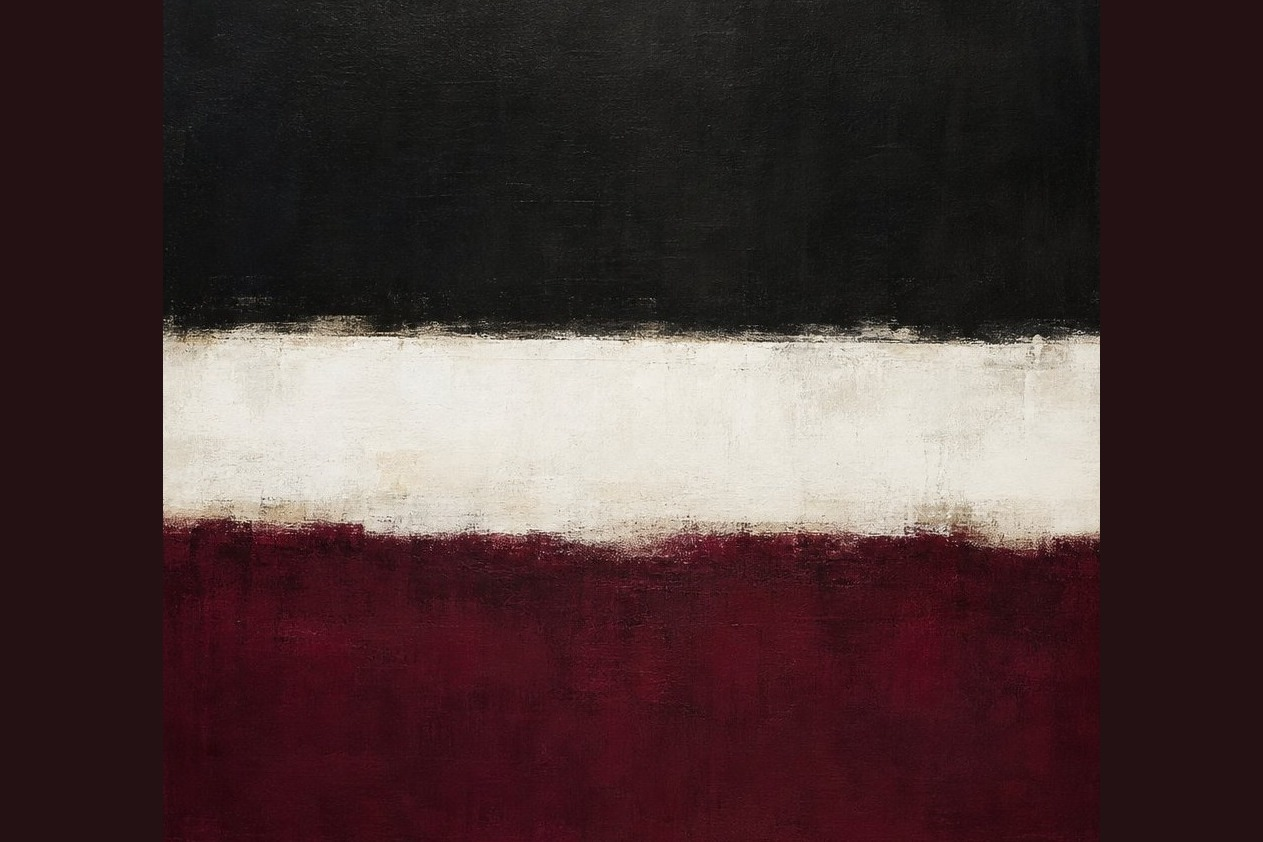
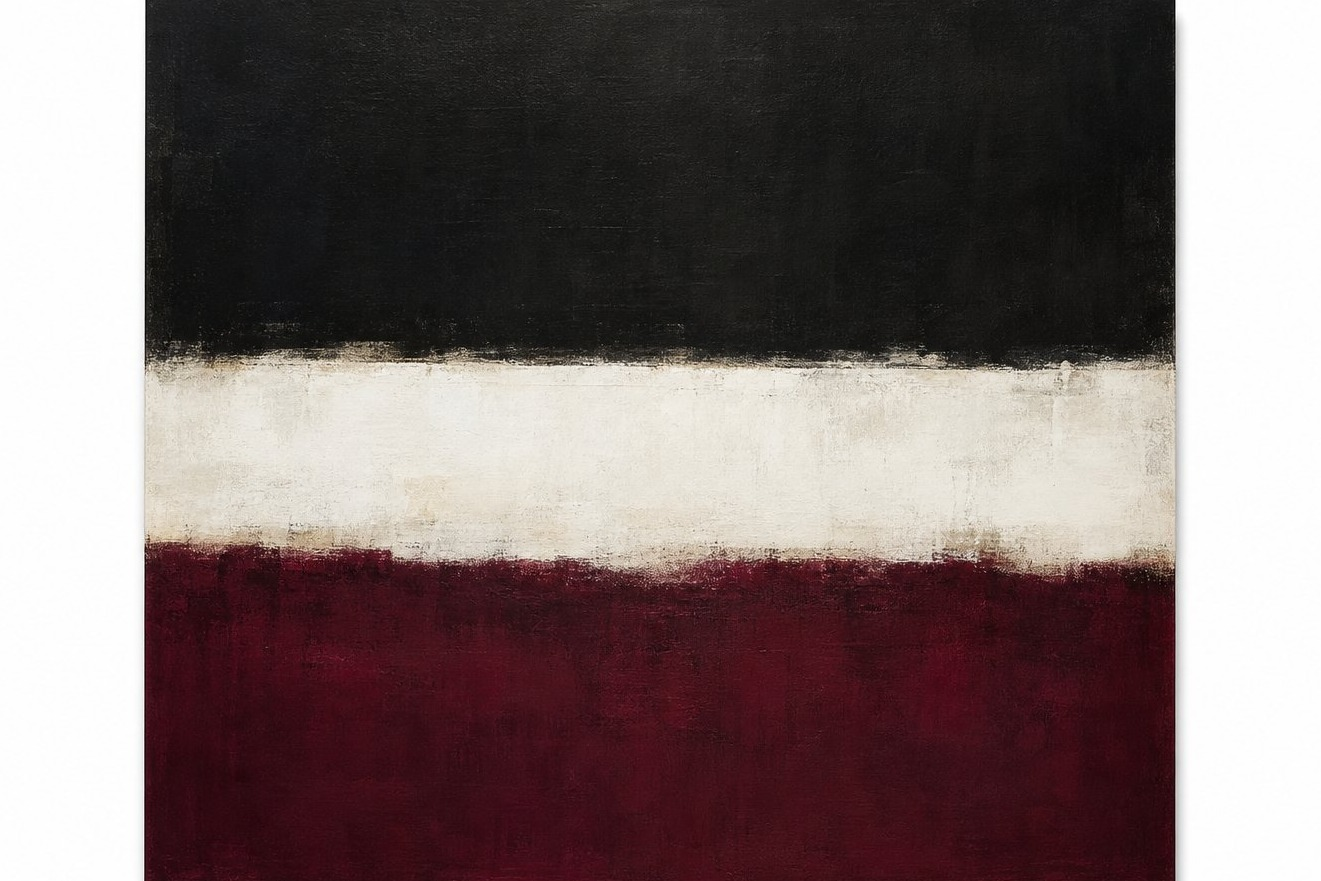
TEXTURES 1-6: imágenes limpias a sangre (recorte del mockup enmarcado) con cache-bust -v2; checkout y webhook apuntan a las nuevas; script v23

Changed region(s): [[0.0, 0.0, 1.0, 1.0]]

diff --git a/api/checkout.js b/api/checkout.js
@@ -2,7 +2,7 @@
 // Recibe {items:[{id,qty}]} y crea UNA Checkout Session de Stripe:
 // un solo pago, envío combinado por tamaños, stock de limitadas validado.
 const RATE = { 32:0, 39:0, 19:0, 44:0, 22:0, 30:0, 8:0 }; // envío siempre gratuito (asegurado)
-const CATALOGO = {"vino-primero":{"n":"Corriente","t":"100 × 150 cm","c":89000,"i":"https://www.gazetastudio.com/assets/print-vino.jpg","s":22,"e":20,"r":14,"f":0},"trazo-unico":{"n":"Pulso","t":"100 × 140 cm","c":42000,"i":"https://www.gazetastudio.com/assets/print-trazo.jpg","s":44,"e":20,"r":16,"f":0},"linea-y-vino":{"n":"Perfil en reposo","t":"60 × 90 cm","c":24000,"i":"https://www.gazetastudio.com/assets/print-linea.jpg","s":19,"e":20,"r":18,"f":0},"arena-calma":{"n":"Mediodía","t":"120 × 165 cm","c":56000,"i":"https://www.gazetastudio.com/assets/print-arena.jpg","s":30,"e":20,"r":12,"f":0},"horizonte-vino":{"n":"Última luz","t":"150 × 100 cm","c":115000,"i":"https://www.gazetastudio.com/assets/print-horizonte.jpg","s":22,"e":20,"r":9,"f":0},"geometria-callada":{"n":"Equilibrio","t":"40 × 55 cm","c":14500,"i":"https://www.gazetastudio.com/assets/print-geometria.jpg","s":39,"e":20,"r":15,"f":0},"textures-7":{"n":"Vena","t":"100 × 150 cm","c":28900,"i":"https://www.gazetastudio.com/assets/print-textures-7.jpg","s":22,"e":20,"r":20,"f":0},"textures-8":{"n":"Ceniza","t":"140 × 100 cm","c":25900,"i":"https://www.gazetastudio.com/assets/print-textures-8.jpg","s":44,"e":20,"r":20,"f":0},"textures-9":{"n":"Atardecer en yeso","t":"165 × 120 cm","c":29900,"i":"https://www.gazetastudio.com/assets/print-textures-9.jpg","s":30,"e":20,"r":20,"f":0},"textures-10":{"n":"Piel","t":"60 × 90 cm","c":18900,"i":"https://www.gazetastudio.com/assets/print-textures-10.jpg","s":19,"e":20,"r":20,"f":0},"eclectic-1":{"n":"Marea urbana","t":"100 × 150 cm","c":28900,"i":"https://www.gazetastudio.com/assets/print-eclectic-1.jpg","s":22,"e":100,"r":100,"f":1},"eclectic-2":{"n":"Terraza interior","t":"140 × 100 cm","c":17900,"i":"https://www.gazetastudio.com/assets/print-eclectic-2.jpg","s":44,"e":100,"r":100,"f":1},"eclectic-3":{"n":"Alfama","t":"140 × 100 cm","c":17900,"i":"https://www.gazetastudio.com/assets/print-eclectic-3.jpg","s":44,"e":100,"r":100,"f":1},"eclectic-4":{"n":"Azotea","t":"100 × 150 cm","c":19900,"i":"https://www.gazetastudio.com/assets/print-eclectic-4.jpg","s":22,"e":100,"r":100,"f":1},"eclectic-5":{"n":"Bodegón eléctrico","t":"140 × 100 cm","c":17900,"i":"https://www.gazetastudio.com/assets/print-eclectic-5.jpg","s":44,"e":100,"r":100,"f":1},"eclectic-6":{"n":"Mercado de flores","t":"140 × 100 cm","c":17900,"i":"https://www.gazetastudio.com/assets/print-eclectic-6.jpg","s":44,"e":100,"r":100,"f":1},"eclectic-7":{"n":"La cocina roja","t":"50 × 40 cm","c":11900,"i":"https://www.gazetastudio.com/assets/print-eclectic-7.jpg","s":32,"e":100,"r":100,"f":1},"eclectic-8":{"n":"Danza de sombrillas","t":"100 × 150 cm","c":19900,"i":"https://www.gazetastudio.com/assets/print-eclectic-8.jpg","s":22,"e":100,"r":100,"f":1},"eclectic-9":{"n":"Jardín nocturno","t":"55 × 40 cm","c":8900,"i":"https://www.gazetastudio.com/assets/print-eclectic-9.jpg","s":39,"e":100,"r":100,"f":1},"eclectic-10":{"n":"El coleccionista","t":"150 × 75 cm","c":22900,"i":"https://www.gazetastudio.com/assets/print-eclectic-10.jpg","s":8,"e":100,"r":100,"f":1},"nordic-1":{"n":"Silencio claro","t":"140 × 100 cm","c":17900,"i":"https://www.gazetastudio.com/assets/print-nordic-1.jpg","s":44,"e":100,"r":100,"f":1},"nordic-2":{"n":"Fiordo","t":"140 × 100 cm","c":17900,"i":"https://www.gazetastudio.com/assets/print-nordic-2.jpg","s":44,"e":100,"r":100,"f":1},"nordic-3":{"n":"Nieve de abril","t":"40 × 50 cm","c":8900,"i":"https://www.gazetastudio.com/assets/print-nordic-3.jpg","s":32,"e":100,"r":100,"f":1},"nordic-4":{"n":"Lago quieto","t":"140 × 100 cm","c":17900,"i":"https://www.gazetastudio.com/assets/print-nordic-4.jpg","s":44,"e":100,"r":100,"f":1},"nordic-5":{"n":"Bosque blanco","t":"100 × 150 cm","c":17900,"i":"https://www.gazetastudio.com/assets/print-nordic-5.jpg","s":22,"e":100,"r":100,"f":1},"nordic-6":{"n":"Marea baja","t":"140 × 100 cm","c":17900,"i":"https://www.gazetastudio.com/assets/print-nordic-6.jpg","s":44,"e":100,"r":100,"f":1},"nordic-7":{"n":"Hielo","t":"50 × 40 cm","c":7900,"i":"https://www.gazetastudio.com/assets/print-nordic-7.jpg","s":32,"e":100,"r":100,"f":1},"nordic-8":{"n":"Campo de centeno","t":"100 × 150 cm","c":17900,"i":"https://www.gazetastudio.com/assets/print-nordic-8.jpg","s":22,"e":100,"r":100,"f":1},"nordic-9":{"n":"Primer tren","t":"55 × 40 cm","c":7900,"i":"https://www.gazetastudio.com/assets/print-nordic-9.jpg","s":39,"e":100,"r":100,"f":1},"nordic-10":{"n":"Ventana al fiordo","t":"150 × 75 cm","c":19900,"i":"https://www.gazetastudio.com/assets/print-nordic-10.jpg","s":8,"e":100,"r":100,"f":1},"bauhaus-1":{"n":"Composición 7","t":"140 × 100 cm","c":17900,"i":"https://www.gazetastudio.com/assets/print-bauhaus-1.jpg","s":44,"e":100,"r":100,"f":1},"bauhaus-2":{"n":"Eje y círculo","t":"100 × 150 cm","c":27900,"i":"https://www.gazetastudio.com/assets/print-bauhaus-2.jpg","s":22,"e":100,"r":100,"f":1},"bauhaus-3":{"n":"Tríada","t":"75 × 150 cm","c":24900,"i":"https://www.gazetastudio.com/assets/print-bauhaus-3.jpg","s":8,"e":100,"r":100,"f":1},"bauhaus-4":{"n":"Progresión","t":"150 × 75 cm","c":22900,"i":"https://www.gazetastudio.com/assets/print-bauhaus-4.jpg","s":8,"e":100,"r":100,"f":1},"bauhaus-5":{"n":"Arco primario","t":"140 × 100 cm","c":18900,"i":"https://www.gazetastudio.com/assets/print-bauhaus-5.jpg","s":44,"e":100,"r":100,"f":1},"bauhaus-6":{"n":"Contracomposición","t":"100 × 150 cm","c":18900,"i":"https://www.gazetastudio.com/assets/print-bauhaus-6.jpg","s":22,"e":100,"r":100,"f":1},"bauhaus-7":{"n":"Tres mástiles","t":"140 × 100 cm","c":17900,"i":"https://www.gazetastudio.com/assets/print-bauhaus-7.jpg","s":44,"e":100,"r":100,"f":1},"bauhaus-8":{"n":"Círculo roto","t":"50 × 40 cm","c":9900,"i":"https://www.gazetastudio.com/assets/print-bauhaus-8.jpg","s":32,"e":100,"r":100,"f":1},"bauhaus-9":{"n":"Escalera cromática","t":"55 × 40 cm","c":8900,"i":"https://www.gazetastudio.com/assets/print-bauhaus-9.jpg","s":39,"e":100,"r":100,"f":1},"bauhaus-10":{"n":"Metropolitano","t":"150 × 75 cm","c":19900,"i":"https://www.gazetastudio.com/assets/print-bauhaus-10.jpg","s":8,"e":100,"r":100,"f":1},"ethereum-1":{"n":"Nodo","t":"100 × 150 cm","c":28900,"i":"https://www.gazetastudio.com/assets/print-ethereum-1.jpg","s":22,"e":100,"r":100,"f":1},"ethereum-2":{"n":"Vórtice","t":"100 × 150 cm","c":28900,"i":"https://www.gazetastudio.com/assets/print-ethereum-2.jpg","s":22,"e":100,"r":100,"f":1},"ethereum-3":{"n":"Nébula","t":"140 × 100 cm","c":26900,"i":"https://www.gazetastudio.com/assets/print-ethereum-3.jpg","s":44,"e":100,"r":100,"f":1},"ethereum-4":{"n":"Fractura","t":"165 × 120 cm","c":24900,"i":"https://www.gazetastudio.com/assets/print-ethereum-4.jpg","s":30,"e":100,"r":100,"f":1},"ethereum-5":{"n":"Espejo líquido","t":"100 × 150 cm","c":28900,"i":"https://www.gazetastudio.com/assets/print-ethereum-5.jpg","s":22,"e":100,"r":100,"f":1},"ethereum-6":{"n":"Señal","t":"50 × 40 cm","c":12900,"i":"https://www.gazetastudio.com/assets/print-ethereum-6.jpg","s":32,"e":100,"r":100,"f":1},"ethereum-7":{"n":"Constelación","t":"140 × 100 cm","c":25900,"i":"https://www.gazetastudio.com/assets/print-ethereum-7.jpg","s":44,"e":100,"r":100,"f":1},"ethereum-8":{"n":"Abismo dorado","t":"150 × 75 cm","c":19900,"i":"https://www.gazetastudio.com/assets/print-ethereum-8.jpg","s":8,"e":100,"r":100,"f":1},"ethereum-9":{"n":"Latencia","t":"55 × 40 cm","c":11900,"i":"https://www.gazetastudio.com/assets/print-ethereum-9.jpg","s":39,"e":100,"r":100,"f":1},"ethereum-10":{"n":"Núcleo","t":"165 × 120 cm","c":28900,"i":"https://www.gazetastudio.com/assets/print-ethereum-10.jpg","s":30,"e":100,"r":100,"f":1},"popart-1":{"n":"Rostro pop","t":"150 × 100 cm","c":17900,"i":"https://www.gazetastudio.com/assets/print-popart-1.jpg","s":22,"e":100,"r":100,"f":1},"popart-2":{"n":"Plátano explosivo","t":"100 × 150 cm","c":17900,"i":"https://www.gazetastudio.com/assets/print-popart-2.jpg","s":22,"e":100,"r":100,"f":1},"popart-3":{"n":"Big bang","t":"140 × 100 cm","c":17900,"i":"https://www.gazetastudio.com/assets/print-popart-3.jpg","s":44,"e":100,"r":100,"f":1},"popart-4":{"n":"Chicle","t":"150 × 100 cm","c":17900,"i":"https://www.gazetastudio.com/assets/print-popart-4.jpg","s":22,"e":100,"r":100,"f":1},"popart-5":{"n":"Cóctel","t":"100 × 150 cm","c":17900,"i":"https://www.gazetastudio.com/assets/print-popart-5.jpg","s":22,"e":100,"r":100,"f":1},"popart-6":{"n":"Patatas fritas","t":"50 × 40 cm","c":9900,"i":"https://www.gazetastudio.com/assets/print-popart-6.jpg","s":32,"e":100,"r":100,"f":1},"popart-7":{"n":"La estrella","t":"140 × 100 cm","c":17900,"i":"https://www.gazetastudio.com/assets/print-popart-7.jpg","s":44,"e":100,"r":100,"f":1},"popart-8":{"n":"Burbujas","t":"55 × 40 cm","c":8900,"i":"https://www.gazetastudio.com/assets/print-popart-8.jpg","s":39,"e":100,"r":100,"f":1},"popart-9":{"n":"Casete","t":"150 × 75 cm","c":19900,"i":"https://www.gazetastudio.com/assets/print-popart-9.jpg","s":8,"e":100,"r":100,"f":1},"popart-10":{"n":"Sirena","t":"165 × 120 cm","c":19900,"i":"https://www.gazetastudio.com/assets/print-popart-10.jpg","s":30,"e":100,"r":100,"f":1},"dimension-1":{"n":"Estratos","t":"100 × 150 cm","c":17900,"i":"https://www.gazetastudio.com/assets/print-dimension-1.jpg","s":22,"e":100,"r":100,"f":1},"dimension-2":{"n":"Arcos flotantes","t":"140 × 100 cm","c":21900,"i":"https://www.gazetastudio.com/assets/print-dimension-2.jpg","s":44,"e":100,"r":100,"f":1},"dimension-3":{"n":"Ola tallada","t":"165 × 120 cm","c":19900,"i":"https://www.gazetastudio.com/assets/print-dimension-3.jpg","s":30,"e":100,"r":100,"f":1},"dimension-4":{"n":"Estratos II","t":"100 × 150 cm","c":17900,"i":"https://www.gazetastudio.com/assets/print-dimension-4.jpg","s":22,"e":100,"r":100,"f":1},"dimension-5":{"n":"Plegado","t":"50 × 40 cm","c":9900,"i":"https://www.gazetastudio.com/assets/print-dimension-5.jpg","s":32,"e":100,"r":100,"f":1},"dimension-6":{"n":"Duna interior","t":"140 × 100 cm","c":18900,"i":"https://www.gazetastudio.com/assets/print-dimension-6.jpg","s":44,"e":100,"r":100,"f":1},"dimension-7":{"n":"Fronda","t":"55 × 40 cm","c":8900,"i":"https://www.gazetastudio.com/assets/print-dimension-7.jpg","s":39,"e":100,"r":100,"f":1},"dimension-8":{"n":"Marea de papel","t":"150 × 75 cm","c":19900,"i":"https://www.gazetastudio.com/assets/print-dimension-8.jpg","s":8,"e":100,"r":100,"f":1},"dimension-9":{"n":"Umbral","t":"60 × 90 cm","c":14900,"i":"https://www.gazetastudio.com/assets/print-dimension-9.jpg","s":19,"e":100,"r":100,"f":1},"dimension-10":{"n":"Vertedera","t":"165 × 120 cm","c":19900,"i":"https://www.gazetastudio.com/assets/print-dimension-10.jpg","s":30,"e":100,"r":100,"f":1}};
+const CATALOGO = {"vino-primero":{"n":"Corriente","t":"100 × 150 cm","c":89000,"i":"https://www.gazetastudio.com/assets/print-vino-v2.jpg","s":22,"e":20,"r":14,"f":0},"trazo-unico":{"n":"Pulso","t":"100 × 140 cm","c":42000,"i":"https://www.gazetastudio.com/assets/print-trazo-v2.jpg","s":44,"e":20,"r":16,"f":0},"linea-y-vino":{"n":"Perfil en reposo","t":"60 × 90 cm","c":24000,"i":"https://www.gazetastudio.com/assets/print-linea-v2.jpg","s":19,"e":20,"r":18,"f":0},"arena-calma":{"n":"Mediodía","t":"120 × 165 cm","c":56000,"i":"https://www.gazetastudio.com/assets/print-arena-v2.jpg","s":30,"e":20,"r":12,"f":0},"horizonte-vino":{"n":"Última luz","t":"150 × 100 cm","c":115000,"i":"https://www.gazetastudio.com/assets/print-horizonte-v2.jpg","s":22,"e":20,"r":9,"f":0},"geometria-callada":{"n":"Equilibrio","t":"40 × 55 cm","c":14500,"i":"https://www.gazetastudio.com/assets/print-geometria-v2.jpg","s":39,"e":20,"r":15,"f":0},"textures-7":{"n":"Vena","t":"100 × 150 cm","c":28900,"i":"https://www.gazetastudio.com/assets/print-textures-7.jpg","s":22,"e":20,"r":20,"f":0},"textures-8":{"n":"Ceniza","t":"140 × 100 cm","c":25900,"i":"https://www.gazetastudio.com/assets/print-textures-8.jpg","s":44,"e":20,"r":20,"f":0},"textures-9":{"n":"Atardecer en yeso","t":"165 × 120 cm","c":29900,"i":"https://www.gazetastudio.com/assets/print-textures-9.jpg","s":30,"e":20,"r":20,"f":0},"textures-10":{"n":"Piel","t":"60 × 90 cm","c":18900,"i":"https://www.gazetastudio.com/assets/print-textures-10.jpg","s":19,"e":20,"r":20,"f":0},"eclectic-1":{"n":"Marea urbana","t":"100 × 150 cm","c":28900,"i":"https://www.gazetastudio.com/assets/print-eclectic-1.jpg","s":22,"e":100,"r":100,"f":1},"eclectic-2":{"n":"Terraza interior","t":"140 × 100 cm","c":17900,"i":"https://www.gazetastudio.com/assets/print-eclectic-2.jpg","s":44,"e":100,"r":100,"f":1},"eclectic-3":{"n":"Alfama","t":"140 × 100 cm","c":17900,"i":"https://www.gazetastudio.com/assets/print-eclectic-3.jpg","s":44,"e":100,"r":100,"f":1},"eclectic-4":{"n":"Azotea","t":"100 × 150 cm","c":19900,"i":"https://www.gazetastudio.com/assets/print-eclectic-4.jpg","s":22,"e":100,"r":100,"f":1},"eclectic-5":{"n":"Bodegón eléctrico","t":"140 × 100 cm","c":17900,"i":"https://www.gazetastudio.com/assets/print-eclectic-5.jpg","s":44,"e":100,"r":100,"f":1},"eclectic-6":{"n":"Mercado de flores","t":"140 × 100 cm","c":17900,"i":"https://www.gazetastudio.com/assets/print-eclectic-6.jpg","s":44,"e":100,"r":100,"f":1},"eclectic-7":{"n":"La cocina roja","t":"50 × 40 cm","c":11900,"i":"https://www.gazetastudio.com/assets/print-eclectic-7.jpg","s":32,"e":100,"r":100,"f":1},"eclectic-8":{"n":"Danza de sombrillas","t":"100 × 150 cm","c":19900,"i":"https://www.gazetastudio.com/assets/print-eclectic-8.jpg","s":22,"e":100,"r":100,"f":1},"eclectic-9":{"n":"Jardín nocturno","t":"55 × 40 cm","c":8900,"i":"https://www.gazetastudio.com/assets/print-eclectic-9.jpg","s":39,"e":100,"r":100,"f":1},"eclectic-10":{"n":"El coleccionista","t":"150 × 75 cm","c":22900,"i":"https://www.gazetastudio.com/assets/print-eclectic-10.jpg","s":8,"e":100,"r":100,"f":1},"nordic-1":{"n":"Silencio claro","t":"140 × 100 cm","c":17900,"i":"https://www.gazetastudio.com/assets/print-nordic-1.jpg","s":44,"e":100,"r":100,"f":1},"nordic-2":{"n":"Fiordo","t":"140 × 100 cm","c":17900,"i":"https://www.gazetastudio.com/assets/print-nordic-2.jpg","s":44,"e":100,"r":100,"f":1},"nordic-3":{"n":"Nieve de abril","t":"40 × 50 cm","c":8900,"i":"https://www.gazetastudio.com/assets/print-nordic-3.jpg","s":32,"e":100,"r":100,"f":1},"nordic-4":{"n":"Lago quieto","t":"140 × 100 cm","c":17900,"i":"https://www.gazetastudio.com/assets/print-nordic-4.jpg","s":44,"e":100,"r":100,"f":1},"nordic-5":{"n":"Bosque blanco","t":"100 × 150 cm","c":17900,"i":"https://www.gazetastudio.com/assets/print-nordic-5.jpg","s":22,"e":100,"r":100,"f":1},"nordic-6":{"n":"Marea baja","t":"140 × 100 cm","c":17900,"i":"https://www.gazetastudio.com/assets/print-nordic-6.jpg","s":44,"e":100,"r":100,"f":1},"nordic-7":{"n":"Hielo","t":"50 × 40 cm","c":7900,"i":"https://www.gazetastudio.com/assets/print-nordic-7.jpg","s":32,"e":100,"r":100,"f":1},"nordic-8":{"n":"Campo de centeno","t":"100 × 150 cm","c":17900,"i":"https://www.gazetastudio.com/assets/print-nordic-8.jpg","s":22,"e":100,"r":100,"f":1},"nordic-9":{"n":"Primer tren","t":"55 × 40 cm","c":7900,"i":"https://www.gazetastudio.com/assets/print-nordic-9.jpg","s":39,"e":100,"r":100,"f":1},"nordic-10":{"n":"Ventana al fiordo","t":"150 × 75 cm","c":19900,"i":"https://www.gazetastudio.com/assets/print-nordic-10.jpg","s":8,"e":100,"r":100,"f":1},"bauhaus-1":{"n":"Composición 7","t":"140 × 100 cm","c":17900,"i":"https://www.gazetastudio.com/assets/print-bauhaus-1.jpg","s":44,"e":100,"r":100,"f":1},"bauhaus-2":{"n":"Eje y círculo","t":"100 × 150 cm","c":27900,"i":"https://www.gazetastudio.com/assets/print-bauhaus-2.jpg","s":22,"e":100,"r":100,"f":1},"bauhaus-3":{"n":"Tríada","t":"75 × 150 cm","c":24900,"i":"https://www.gazetastudio.com/assets/print-bauhaus-3.jpg","s":8,"e":100,"r":100,"f":1},"bauhaus-4":{"n":"Progresión","t":"150 × 75 cm","c":22900,"i":"https://www.gazetastudio.com/assets/print-bauhaus-4.jpg","s":8,"e":100,"r":100,"f":1},"bauhaus-5":{"n":"Arco primario","t":"140 × 100 cm","c":18900,"i":"https://www.gazetastudio.com/assets/print-bauhaus-5.jpg","s":44,"e":100,"r":100,"f":1},"bauhaus-6":{"n":"Contracomposición","t":"100 × 150 cm","c":18900,"i":"https://www.gazetastudio.com/assets/print-bauhaus-6.jpg","s":22,"e":100,"r":100,"f":1},"bauhaus-7":{"n":"Tres mástiles","t":"140 × 100 cm","c":17900,"i":"https://www.gazetastudio.com/assets/print-bauhaus-7.jpg","s":44,"e":100,"r":100,"f":1},"bauhaus-8":{"n":"Círculo roto","t":"50 × 40 cm","c":9900,"i":"https://www.gazetastudio.com/assets/print-bauhaus-8.jpg","s":32,"e":100,"r":100,"f":1},"bauhaus-9":{"n":"Escalera cromática","t":"55 × 40 cm","c":8900,"i":"https://www.gazetastudio.com/assets/print-bauhaus-9.jpg","s":39,"e":100,"r":100,"f":1},"bauhaus-10":{"n":"Metropolitano","t":"150 × 75 cm","c":19900,"i":"https://www.gazetastudio.com/assets/print-bauhaus-10.jpg","s":8,"e":100,"r":100,"f":1},"ethereum-1":{"n":"Nodo","t":"100 × 150 cm","c":28900,"i":"https://www.gazetastudio.com/assets/print-ethereum-1.jpg","s":22,"e":100,"r":100,"f":1},"ethereum-2":{"n":"Vórtice","t":"100 × 150 cm","c":28900,"i":"https://www.gazetastudio.com/assets/print-ethereum-2.jpg","s":22,"e":100,"r":100,"f":1},"ethereum-3":{"n":"Nébula","t":"140 × 100 cm","c":26900,"i":"https://www.gazetastudio.com/assets/print-ethereum-3.jpg","s":44,"e":100,"r":100,"f":1},"ethereum-4":{"n":"Fractura","t":"165 × 120 cm","c":24900,"i":"https://www.gazetastudio.com/assets/print-ethereum-4.jpg","s":30,"e":100,"r":100,"f":1},"ethereum-5":{"n":"Espejo líquido","t":"100 × 150 cm","c":28900,"i":"https://www.gazetastudio.com/assets/print-ethereum-5.jpg","s":22,"e":100,"r":100,"f":1},"ethereum-6":{"n":"Señal","t":"50 × 40 cm","c":12900,"i":"https://www.gazetastudio.com/assets/print-ethereum-6.jpg","s":32,"e":100,"r":100,"f":1},"ethereum-7":{"n":"Constelación","t":"140 × 100 cm","c":25900,"i":"https://www.gazetastudio.com/assets/print-ethereum-7.jpg","s":44,"e":100,"r":100,"f":1},"ethereum-8":{"n":"Abismo dorado","t":"150 × 75 cm","c":19900,"i":"https://www.gazetastudio.com/assets/print-ethereum-8.jpg","s":8,"e":100,"r":100,"f":1},"ethereum-9":{"n":"Latencia","t":"55 × 40 cm","c":11900,"i":"https://www.gazetastudio.com/assets/print-ethereum-9.jpg","s":39,"e":100,"r":100,"f":1},"ethereum-10":{"n":"Núcleo","t":"165 × 120 cm","c":28900,"i":"https://www.gazetastudio.com/assets/print-ethereum-10.jpg","s":30,"e":100,"r":100,"f":1},"popart-1":{"n":"Rostro pop","t":"150 × 100 cm","c":17900,"i":"https://www.gazetastudio.com/assets/print-popart-1.jpg","s":22,"e":100,"r":100,"f":1},"popart-2":{"n":"Plátano explosivo","t":"100 × 150 cm","c":17900,"i":"https://www.gazetastudio.com/assets/print-popart-2.jpg","s":22,"e":100,"r":100,"f":1},"popart-3":{"n":"Big bang","t":"140 × 100 cm","c":17900,"i":"https://www.gazetastudio.com/assets/print-popart-3.jpg","s":44,"e":100,"r":100,"f":1},"popart-4":{"n":"Chicle","t":"150 × 100 cm","c":17900,"i":"https://www.gazetastudio.com/assets/print-popart-4.jpg","s":22,"e":100,"r":100,"f":1},"popart-5":{"n":"Cóctel","t":"100 × 150 cm","c":17900,"i":"https://www.gazetastudio.com/assets/print-popart-5.jpg","s":22,"e":100,"r":100,"f":1},"popart-6":{"n":"Patatas fritas","t":"50 × 40 cm","c":9900,"i":"https://www.gazetastudio.com/assets/print-popart-6.jpg","s":32,"e":100,"r":100,"f":1},"popart-7":{"n":"La estrella","t":"140 × 100 cm","c":17900,"i":"https://www.gazetastudio.com/assets/print-popart-7.jpg","s":44,"e":100,"r":100,"f":1},"popart-8":{"n":"Burbujas","t":"55 × 40 cm","c":8900,"i":"https://www.gazetastudio.com/assets/print-popart-8.jpg","s":39,"e":100,"r":100,"f":1},"popart-9":{"n":"Casete","t":"150 × 75 cm","c":19900,"i":"https://www.gazetastudio.com/assets/print-popart-9.jpg","s":8,"e":100,"r":100,"f":1},"popart-10":{"n":"Sirena","t":"165 × 120 cm","c":19900,"i":"https://www.gazetastudio.com/assets/print-popart-10.jpg","s":30,"e":100,"r":100,"f":1},"dimension-1":{"n":"Estratos","t":"100 × 150 cm","c":17900,"i":"https://www.gazetastudio.com/assets/print-dimension-1.jpg","s":22,"e":100,"r":100,"f":1},"dimension-2":{"n":"Arcos flotantes","t":"140 × 100 cm","c":21900,"i":"https://www.gazetastudio.com/assets/print-dimension-2.jpg","s":44,"e":100,"r":100,"f":1},"dimension-3":{"n":"Ola tallada","t":"165 × 120 cm","c":19900,"i":"https://www.gazetastudio.com/assets/print-dimension-3.jpg","s":30,"e":100,"r":100,"f":1},"dimension-4":{"n":"Estratos II","t":"100 × 150 cm","c":17900,"i":"https://www.gazetastudio.com/assets/print-dimension-4.jpg","s":22,"e":100,"r":100,"f":1},"dimension-5":{"n":"Plegado","t":"50 × 40 cm","c":9900,"i":"https://www.gazetastudio.com/assets/print-dimension-5.jpg","s":32,"e":100,"r":100,"f":1},"dimension-6":{"n":"Duna interior","t":"140 × 100 cm","c":18900,"i":"https://www.gazetastudio.com/assets/print-dimension-6.jpg","s":44,"e":100,"r":100,"f":1},"dimension-7":{"n":"Fronda","t":"55 × 40 cm","c":8900,"i":"https://www.gazetastudio.com/assets/print-dimension-7.jpg","s":39,"e":100,"r":100,"f":1},"dimension-8":{"n":"Marea de papel","t":"150 × 75 cm","c":19900,"i":"https://www.gazetastudio.com/assets/print-dimension-8.jpg","s":8,"e":100,"r":100,"f":1},"dimension-9":{"n":"Umbral","t":"60 × 90 cm","c":14900,"i":"https://www.gazetastudio.com/assets/print-dimension-9.jpg","s":19,"e":100,"r":100,"f":1},"dimension-10":{"n":"Vertedera","t":"165 × 120 cm","c":19900,"i":"https://www.gazetastudio.com/assets/print-dimension-10.jpg","s":30,"e":100,"r":100,"f":1}};
 const PRODUCTO_LIMITADA = {"vino-primero":"prod_VVv8zJYc3NUEIr","trazo-unico":"prod_VUMRGwjTiy5ffP","linea-y-vino":"prod_VUMRXQn31wHO1U","arena-calma":"prod_VUMR8RqqCZm1Pp","horizonte-vino":"prod_VUMRSpUJGD3fMY","geometria-callada":"prod_VUMRdH5PhvuJDa","textures-7":"prod_VVv4u2wKPL90nP","textures-8":"prod_VVv47ALRy0k7SD","textures-9":"prod_VVv4GYmLWHvGbR","textures-10":"prod_VVv4NYU0rjWJBe"};
 const MAX_UNIDADES_OBRA = 10;
 const MAX_UNIDADES_PEDIDO = 20;

diff --git a/script.js b/script.js
@@ -14,12 +14,12 @@ const COLECCIONES = {
 
 const productos = [
   /* ───── TEXTURES · edición limitada de 20 ───── */
-  { id:'vino-primero', nombre:'Corriente', coleccion:'textures', img:'assets/obra-vino.jpg', img2:'assets/print-vino.jpg', tamano:'100 × 150 cm', size_id:22, edicion:20, restantes:14, precio:890,  pago:'https://buy.stripe.com/28EbIVga0bnS2BY3TN5os21', gran:true },
-  { id:'trazo-unico', nombre:'Pulso', coleccion:'textures', img:'assets/obra-trazo.jpg', img2:'assets/print-trazo.jpg', tamano:'100 × 140 cm', size_id:44, edicion:20, restantes:16, precio:420,  pago:'https://buy.stripe.com/4gM7sF9LCfE890m2PJ5os01', gran:true },
-  { id:'linea-y-vino', nombre:'Perfil en reposo', coleccion:'textures', img:'assets/obra-linea.jpg', img2:'assets/print-linea.jpg', tamano:'60 × 90 cm', size_id:19, edicion:20, restantes:18, precio:240,  pago:'https://buy.stripe.com/dRmcMZ2ja63ydgC9e75os02', gran:false },
-  { id:'arena-calma', nombre:'Mediodía', coleccion:'textures', img:'assets/obra-arena.jpg', img2:'assets/print-arena.jpg', tamano:'120 × 165 cm', size_id:30, edicion:20, restantes:12, precio:560,  pago:'https://buy.stripe.com/cNi00d0b2crW7Wieyr5os03', gran:true },
-  { id:'horizonte-vino', nombre:'Última luz', coleccion:'textures', img:'assets/obra-horizonte.jpg', img2:'assets/print-horizonte.jpg', tamano:'150 × 100 cm', size_id:22, edicion:20, restantes:9,  precio:1150, pago:'https://buy.stripe.com/00wcMZbTK0Jeb8u9e75os04', gran:true },
-  { id:'geometria-callada', nombre:'Equilibrio', coleccion:'textures', img:'assets/obra-geometria.jpg', img2:'assets/print-geometria.jpg', tamano:'40 × 55 cm', size_id:39, edicion:20, restantes:15, precio:145,  pago:'https://buy.stripe.com/5kQcMZcXO63y6Se4XR5os05', gran:false },
+  { id:'vino-primero', nombre:'Corriente', coleccion:'textures', img:'assets/obra-vino-v2.jpg', img2:'assets/print-vino-v2.jpg', tamano:'100 × 150 cm', size_id:22, edicion:20, restantes:14, precio:890,  pago:'https://buy.stripe.com/28EbIVga0bnS2BY3TN5os21', gran:true },
+  { id:'trazo-unico', nombre:'Pulso', coleccion:'textures', img:'assets/obra-trazo-v2.jpg', img2:'assets/print-trazo-v2.jpg', tamano:'100 × 140 cm', size_id:44, edicion:20, restantes:16, precio:420,  pago:'https://buy.stripe.com/4gM7sF9LCfE890m2PJ5os01', gran:true },
+  { id:'linea-y-vino', nombre:'Perfil en reposo', coleccion:'textures', img:'assets/obra-linea-v2.jpg', img2:'assets/print-linea-v2.jpg', tamano:'60 × 90 cm', size_id:19, edicion:20, restantes:18, precio:240,  pago:'https://buy.stripe.com/dRmcMZ2ja63ydgC9e75os02', gran:false },
+  { id:'arena-calma', nombre:'Mediodía', coleccion:'textures', img:'assets/obra-arena-v2.jpg', img2:'assets/print-arena-v2.jpg', tamano:'120 × 165 cm', size_id:30, edicion:20, restantes:12, precio:560,  pago:'https://buy.stripe.com/cNi00d0b2crW7Wieyr5os03', gran:true },
+  { id:'horizonte-vino', nombre:'Última luz', coleccion:'textures', img:'assets/obra-horizonte-v2.jpg', img2:'assets/print-horizonte-v2.jpg', tamano:'150 × 100 cm', size_id:22, edicion:20, restantes:9,  precio:1150, pago:'https://buy.stripe.com/00wcMZbTK0Jeb8u9e75os04', gran:true },
+  { id:'geometria-callada', nombre:'Equilibrio', coleccion:'textures', img:'assets/obra-geometria-v2.jpg', img2:'assets/print-geometria-v2.jpg', tamano:'40 × 55 cm', size_id:39, edicion:20, restantes:15, precio:145,  pago:'https://buy.stripe.com/5kQcMZcXO63y6Se4XR5os05', gran:false },
   { id:'textures-7', nombre:'Vena', coleccion:'textures', img:'assets/art-textures-7.jpg', img2:'assets/print-textures-7.jpg', tamano:'100 × 150 cm', size_id:22, edicion:20, restantes:20, precio:289, pago:'https://buy.stripe.com/aFa6oB2ja63yccyeyr5os1Y', gran:true },
   { id:'textures-8', nombre:'Ceniza', coleccion:'textures', img:'assets/art-textures-8.jpg', img2:'assets/print-textures-8.jpg', tamano:'140 × 100 cm', size_id:44, edicion:20, restantes:20, precio:259, pago:'https://buy.stripe.com/9B6eV7f5W77C5Oabmf5os1Z', gran:true },
   { id:'textures-9', nombre:'Atardecer en yeso', coleccion:'textures', img:'assets/art-textures-9.jpg', img2:'assets/print-textures-9.jpg', tamano:'165 × 120 cm', size_id:30, edicion:20, restantes:20, precio:299, pago:'https://buy.stripe.com/7sYfZbaPG9fK2BY4XR5os20', gran:true },

diff --git a/api/stripe-webhook.js b/api/stripe-webhook.js
@@ -23,12 +23,12 @@ export const config = { api: { bodyParser: false } };
 // obra → datos fijos (edición total, precio céntimos, specs Printumo: lienzo 2, mercado EU 1, sin marco 2)
 const OBRAS = {
   /* ── TEXTURES · edición limitada de 20 ── */
-  plink_1UUtIH85u7jC8FxLsP7M3KnV: { id:'vino-primero',      nombre:'Corriente',        product:'prod_VVv8zJYc3NUEIr', edicion:20, size:22, fija:false, img:'https://www.gazetastudio.com/assets/print-vino.jpg' },
-  plink_1UTNiz85u7jC8FxLzPpIXtNu: { id:'trazo-unico',       nombre:'Pulso',            product:'prod_VUMRGwjTiy5ffP', edicion:20, size:44, fija:false, img:'https://www.gazetastudio.com/assets/print-trazo.jpg' },
-  plink_1UTNj085u7jC8FxLv8Aq1AfY: { id:'linea-y-vino',      nombre:'Perfil en reposo', product:'prod_VUMRXQn31wHO1U', edicion:20, size:19, fija:false, img:'https://www.gazetastudio.com/assets/print-linea.jpg' },
-  plink_1UTNj185u7jC8FxLMLRqV6lM: { id:'arena-calma',       nombre:'Mediodía',         product:'prod_VUMR8RqqCZm1Pp', edicion:20, size:30, fija:false, img:'https://www.gazetastudio.com/assets/print-arena.jpg' },
-  plink_1UTNj285u7jC8FxLAlEUaRc0: { id:'horizonte-vino',    nombre:'Última luz',       product:'prod_VUMRSpUJGD3fMY', edicion:20, size:22, fija:false, img:'https://www.gazetastudio.com/assets/print-horizonte.jpg' },
-  plink_1UTNj385u7jC8FxLbqRJAfN5: { id:'geometria-callada', nombre:'Equilibrio',       product:'prod_VUMRdH5PhvuJDa', edicion:20, size:39, fija:false, img:'https://www.gazetastudio.com/assets/print-geometria.jpg' },
+  plink_1UUtIH85u7jC8FxLsP7M3KnV: { id:'vino-primero',      nombre:'Corriente',        product:'prod_VVv8zJYc3NUEIr', edicion:20, size:22, fija:false, img:'https://www.gazetastudio.com/assets/print-vino-v2.jpg' },
+  plink_1UTNiz85u7jC8FxLzPpIXtNu: { id:'trazo-unico',       nombre:'Pulso',            product:'prod_VUMRGwjTiy5ffP', edicion:20, size:44, fija:false, img:'https://www.gazetastudio.com/assets/print-trazo-v2.jpg' },
+  plink_1UTNj085u7jC8FxLv8Aq1AfY: { id:'linea-y-vino',      nombre:'Perfil en reposo', product:'prod_VUMRXQn31wHO1U', edicion:20, size:19, fija:false, img:'https://www.gazetastudio.com/assets/print-linea-v2.jpg' },
+  plink_1UTNj185u7jC8FxLMLRqV6lM: { id:'arena-calma',       nombre:'Mediodía',         product:'prod_VUMR8RqqCZm1Pp', edicion:20, size:30, fija:false, img:'https://www.gazetastudio.com/assets/print-arena-v2.jpg' },
+  plink_1UTNj285u7jC8FxLAlEUaRc0: { id:'horizonte-vino',    nombre:'Última luz',       product:'prod_VUMRSpUJGD3fMY', edicion:20, size:22, fija:false, img:'https://www.gazetastudio.com/assets/print-horizonte-v2.jpg' },
+  plink_1UTNj385u7jC8FxLbqRJAfN5: { id:'geometria-callada', nombre:'Equilibrio',       product:'prod_VUMRdH5PhvuJDa', edicion:20, size:39, fija:false, img:'https://www.gazetastudio.com/assets/print-geometria-v2.jpg' },
   /* ── Colecciones fijas ── */
   plink_1UTidb85u7jC8FxLdRVXGwTQ: { id:'eclectic-1', nombre:'Marea urbana', product:'prod_VUi3028BgLOpI7', edicion:100, size:22, fija:true, img:'https://www.gazetastudio.com/assets/print-eclectic-1.jpg' },
   plink_1UTidc85u7jC8FxL6F93Vrfn: { id:'eclectic-2', nombre:'Terraza interior', product:'prod_VUi3cKVRxupXpZ', edicion:100, size:44, fija:true, img:'https://www.gazetastudio.com/assets/print-eclectic-2.jpg' },

diff --git a/gracias/index.html b/gracias/index.html
@@ -86,7 +86,7 @@
     <p class="muted" style="font-size:.75rem;margin-top:.8rem;text-align:center">Un solo pago · un solo envío · <a href="../legal/envios-devoluciones/" style="text-decoration:underline">Envíos y devoluciones</a></p></div>
 </aside>
 <div class="toast" id="toast" role="status"></div>
-<script src="../script.js?v=22"></script>
+<script src="../script.js?v=23"></script>
 <script>initShop();</script>
 <script>(function(){const q=new URLSearchParams(location.search).get("obra");const m=document.getElementById("msgObra");if(q&&m)m.textContent="«"+q+"» está reservada para ti. La preparamos y te la llevamos a casa.";})();</script>
 </body>

diff --git a/contacto/index.html b/contacto/index.html
@@ -117,7 +117,7 @@
     <p class="muted" style="font-size:.75rem;margin-top:.8rem;text-align:center">Un solo pago · un solo envío · <a href="../legal/envios-devoluciones/" style="text-decoration:underline">Envíos y devoluciones</a></p></div>
 </aside>
 <div class="toast" id="toast" role="status"></div>
-<script src="../script.js?v=22"></script>
+<script src="../script.js?v=23"></script>
 <script>initShop();</script>
 <script>
 const FORM_GAZETA='https://docs.google.com/forms/d/e/1FAIpQLSeltf0C94GMp9qZi1Pq1NTAy-G32WtNH4PUJ_vmd0ptZDdNkg/formResponse';

diff --git a/legal/condiciones-venta/index.html b/legal/condiciones-venta/index.html
@@ -115,7 +115,7 @@
     <p class="muted" style="font-size:.75rem;margin-top:.8rem;text-align:center">Un solo pago · un solo envío · <a href="../../legal/envios-devoluciones/" style="text-decoration:underline">Envíos y devoluciones</a></p></div>
 </aside>
 <div class="toast" id="toast" role="status"></div>
-<script src="../../script.js?v=22"></script>
+<script src="../../script.js?v=23"></script>
 <script>initShop();</script>
 </body>
 </html>

diff --git a/legal/aviso-legal/index.html b/legal/aviso-legal/index.html
@@ -83,7 +83,7 @@
     <p class="muted" style="font-size:.75rem;margin-top:.8rem;text-align:center">Un solo pago · un solo envío · <a href="../../legal/envios-devoluciones/" style="text-decoration:underline">Envíos y devoluciones</a></p></div>
 </aside>
 <div class="toast" id="toast" role="status"></div>
-<script src="../../script.js?v=22"></script>
+<script src="../../script.js?v=23"></script>
 <script>initShop();</script>
 </body>
 </html>

diff --git a/legal/cookies/index.html b/legal/cookies/index.html
@@ -83,7 +83,7 @@
     <p class="muted" style="font-size:.75rem;margin-top:.8rem;text-align:center">Un solo pago · un solo envío · <a href="../../legal/envios-devoluciones/" style="text-decoration:underline">Envíos y devoluciones</a></p></div>
 </aside>
 <div class="toast" id="toast" role="status"></div>
-<script src="../../script.js?v=22"></script>
+<script src="../../script.js?v=23"></script>
 <script>initShop();</script>
 </body>
 </html>

diff --git a/legal/envios-devoluciones/index.html b/legal/envios-devoluciones/index.html
@@ -94,7 +94,7 @@
     <p class="muted" style="font-size:.75rem;margin-top:.8rem;text-align:center">Un solo pago · un solo envío · <a href="../../legal/envios-devoluciones/" style="text-decoration:underline">Envíos y devoluciones</a></p></div>
 </aside>
 <div class="toast" id="toast" role="status"></div>
-<script src="../../script.js?v=22"></script>
+<script src="../../script.js?v=23"></script>
 <script>initShop();</script>
 </body>
 </html>

diff --git a/legal/privacidad/index.html b/legal/privacidad/index.html
@@ -83,7 +83,7 @@
     <p class="muted" style="font-size:.75rem;margin-top:.8rem;text-align:center">Un solo pago · un solo envío · <a href="../../legal/envios-devoluciones/" style="text-decoration:underline">Envíos y devoluciones</a></p></div>
 </aside>
 <div class="toast" id="toast" role="status"></div>
-<script src="../../script.js?v=22"></script>
+<script src="../../script.js?v=23"></script>
 <script>initShop();</script>
 </body>
 </html>

diff --git a/legal/terminos/index.html b/legal/terminos/index.html
@@ -83,7 +83,7 @@
     <p class="muted" style="font-size:.75rem;margin-top:.8rem;text-align:center">Un solo pago · un solo envío · <a href="../../legal/envios-devoluciones/" style="text-decoration:underline">Envíos y devoluciones</a></p></div>
 </aside>
 <div class="toast" id="toast" role="status"></div>
-<script src="../../script.js?v=22"></script>
+<script src="../../script.js?v=23"></script>
 <script>initShop();</script>
 </body>
 </html>

diff --git a/coleccion/bauhaus/index.html b/coleccion/bauhaus/index.html
@@ -83,7 +83,7 @@
     <p class="muted" style="font-size:.75rem;margin-top:.8rem;text-align:center">Un solo pago · un solo envío · <a href="../../legal/envios-devoluciones/" style="text-decoration:underline">Envíos y devoluciones</a></p></div>
 </aside>
 <div class="toast" id="toast" role="status"></div>
-<script src="../../script.js?v=22"></script>
+<script src="../../script.js?v=23"></script>
 <script>initShop();</script>
 
 </body>
